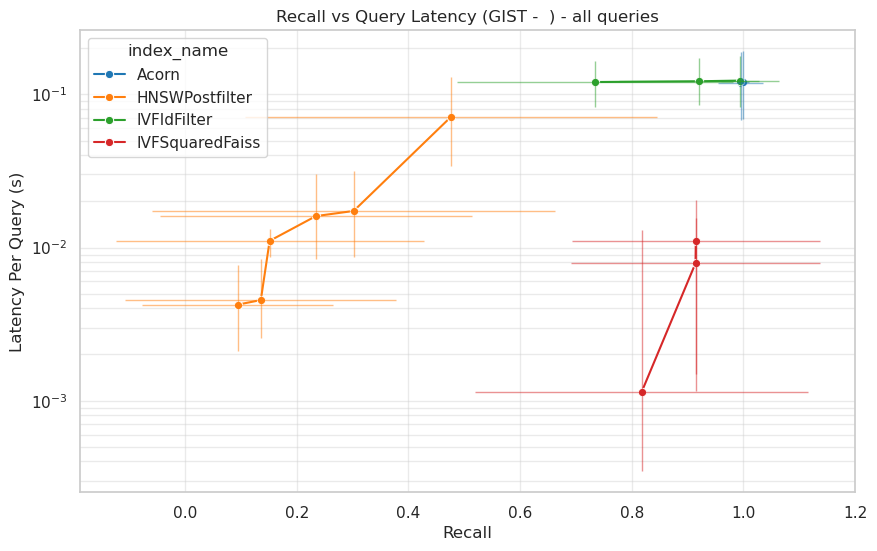
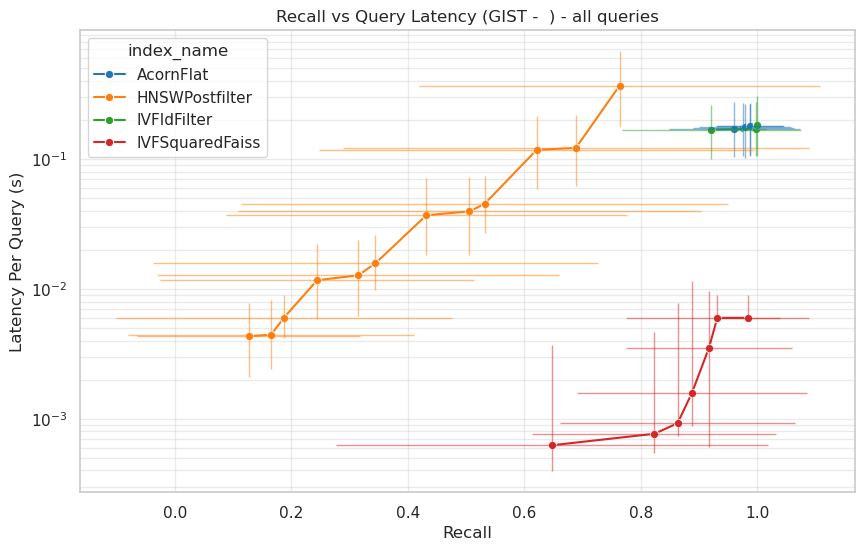
updated readme and environment

diff --git a/README.md b/README.md
@@ -1,5 +1,5 @@
 
-# Benchmarking Filtered Approximate Nearest Neighbor Search (k-ANNS)
+# Benchmarking Filtered Approximate Nearest Neighbor Search (k-FANNS)
 
 ## License
 This project is licensed under the **MIT License** - see the [LICENSE](LICENSE) file for details.
@@ -20,7 +20,7 @@ Algorithms are evaluated based on the following four pillars:
 
 ## Installation & Setup
 
-### 1. Environment Configuration
+### Environment Configuration
 Clone the repository and initialize the Python environment using the provided Conda configuration:
 
 ```bash
@@ -30,26 +30,19 @@ conda env create -f environment.yml
 conda activate ann_bench
 ````
 
-### 2\. External Dependencies
-
-This benchmark utilizes specialized C++ implementations. You must follow the build instructions within the respective submodules to compile the source code:
-
-  * **ACORN**: High-performance filtered HNSW. Compiled following the instructions of the faiss library.
-  * **IVF-Squared**: Inverted file structures pointing at vamana-indices. Compiled following the instructions
-  of the ParlayANN library.
-
 -----
 
 ## Repository Structure
 
 | Directory/File | Description |
 | :--- | :--- |
+| `faiss/faiss` | Source code for the implemented algorithms in C++ and Python Bindings |
 | `src/algorithms/` | Python wrappers and interfaces for the benchmarked algorithms. |
 | `src/benchmark/` | Core `BenchmarkRunner` logic and execution scripts for running algorithms and logging results. |
 | `src/datasets/` | Dataset generation, attribute synthesis, and exploratory data analysis. |
 | `src/tests/` | Unit tests for the benchmarking pipeline validation. |
 | `logger.py` | Centralized utility for recording performance metrics. |
-| `plotter.py` | Visualization tools for generating performance charts from log files. |
+| `src/analysers` | Visualization tools for generating performance charts from log files. |
 
 -----
 
@@ -61,7 +54,7 @@ We compare state-of-the-art filtered search techniques against standard baseline
 2.  **Faiss IVF (In-filtering)**: Inverted File Index with filtering applied during list scanning.
 3.  **Faiss HNSW (Post-filtering)**: Hierarchical Navigable Small Worlds with subsequent filter application.
 4.  **ACORN**: An extension of HNSW designed specifically for predicate-based search.
-5.  **IVF-Squared**: An optimized index for ANNS with tag filtering with AND constraints on 1-2 tags.
+5.  **IVF-Squared**: An optimized index for ANNS with tag filtering supporting AND constraints on 1-2 tags.
 
 -----
 
@@ -96,20 +89,20 @@ python -m src.benchmark.[algorithm_name]_bench
 ```
 
 **3. Postprocessing**
-Generate additional data using the raw log - data. Also creates plots to visualize the data in the `/logs` folder.
+Generate additional data using the raw log - data.
 
 ```bash
-python -m src.postprocess
+python -m src.analysers.postprocess
 ```
 
 **4. Visualization**
 Generate performance plots (e.g., Recall vs. Latency curves):
 
 ```bash
-python -m src.tests.plot_test
+python -m src.analysers.[filename]
 ```
 
-*Plots will be exported to the `/benchmark_plots` directory.*
+*Plots will be exported to the `/analysis` directory.*
 
 -----
 
@@ -123,8 +116,13 @@ The recall vs latency plots:
 
 The build time + index memory plots
 
-![Alt Text](sampled_plots/GIST_1.0__resources.png)
+![Alt Text](sampled_plots/GIST_1.0_memory.png)
+![Alt Text](sampled_plots/GIST_1.0_tti_memory.png)
 
+As well as plots showing the parameter trade-off for individual indexes:
+
+![Alt Text](sampled_plots/AcornFlat_GIST_1.0_None_query_correlation.png)
+![Alt Text](sampled_plots/AcornFlat_GIST_1.0_None_query.png)
 
 -----
 
